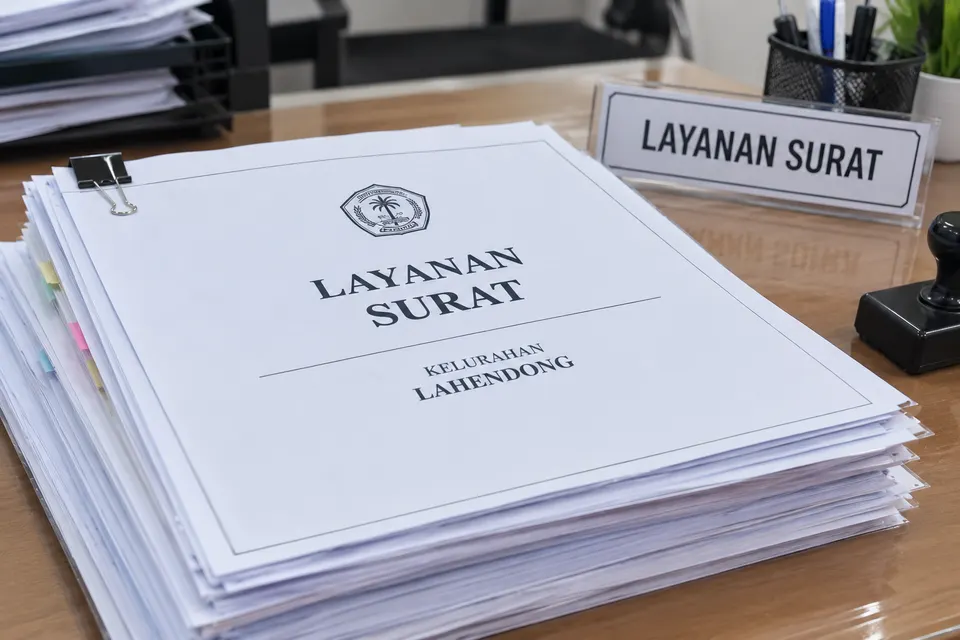
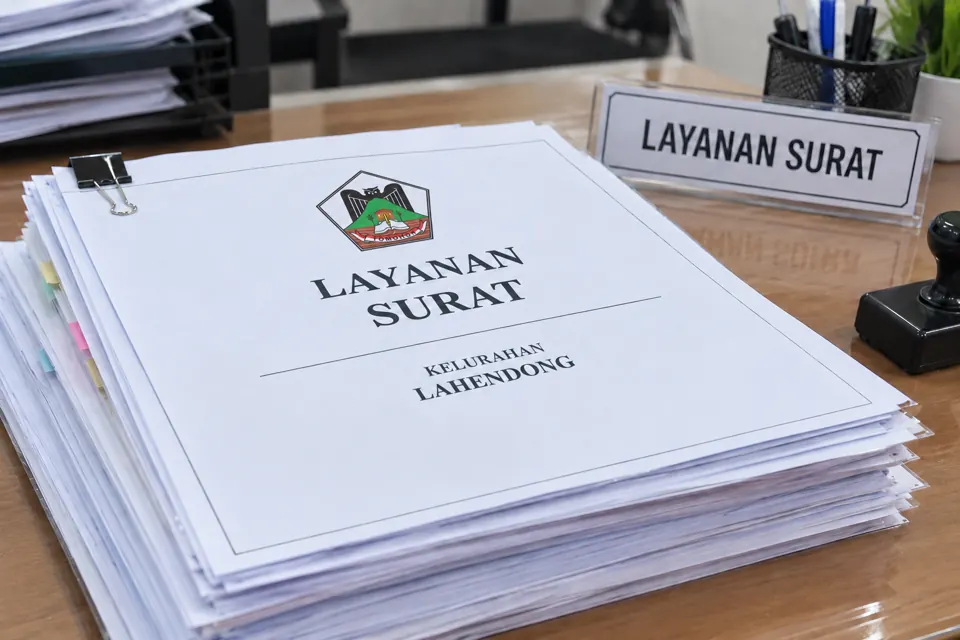
fix: galeri wisata tahan lebar nol, hero halaman Wisata & Layanan
- susunGaleri tidak lagi error bila lebar wadah belum terbaca (tab latar belakang); tampilan
  disegarkan sebelum video & galeri dipasang, jadi satu galat tidak menyembunyikan isi halaman
- Galeri Danau Linow disusun ulang tanpa linow11 (dihapus dari data/)
- Kop halaman Wisata berlatar foto Danau Linow; foto kop Layanan versi terbaru

diff --git a/wisata.html b/wisata.html
@@ -22,7 +22,12 @@
 
   <main id="konten-utama" class="flex-1">
 
-    <section class="kop-halaman">
+    <!-- Foto kop: img/wisata/hero.webp (HP: hero-hp.webp) — Danau Linow dari ketinggian -->
+    <section class="kop-halaman kop-berfoto">
+      <div class="latar-kop">
+        <img src="img/wisata/hero.webp" srcset="img/wisata/hero-hp.webp 960w, img/wisata/hero.webp 1920w" sizes="100vw" alt=""
+             class="object-[center_70%]" />
+      </div>
       <div class="wadah kop-isi">
         <nav class="remah" aria-label="Lokasi halaman" data-remah></nav>
         <h1 class="judul-halaman">Destinasi Wisata</h1>
@@ -42,7 +47,7 @@
   <script src="assets/js/data.js?v=df4c9c7e"></script>
   <script src="assets/js/data-contoh.js?v=8cc43cfc"></script>
   <script src="assets/js/ui.js?v=8b47d155"></script>
-  <script src="assets/js/komponen.js?v=0b0b7fb5"></script>
+  <script src="assets/js/komponen.js?v=65641f4d"></script>
   <script src="assets/js/halaman/wisata.js?v=02964648"></script>
 </body>
 </html>

diff --git a/assets/js/halaman/wisata-detail.js b/assets/js/halaman/wisata-detail.js
@@ -30,9 +30,9 @@ document.addEventListener("DOMContentLoaded", async () => {
 
   document.title = teksPolos(item.nama) + " — Kelurahan Lahendong";
   wadah.innerHTML = tampilanDetail(item) + bagianGaleri(item);
+  segarkanTampilan();
   pasangVideoLatar(document.querySelector(".kop-wisata video"));
   pasangGaleri();
-  segarkanTampilan();
 });
 
 function tampilkanPesan(wadah, ikon, judul, pesan, warnaIkon = "text-[var(--muted)]") {
@@ -220,6 +220,7 @@ function susunGaleri() {
     return;
   }
   const lebar = wadah.clientWidth;
+  if (!lebar) return; // belum tampil (mis. tab di latar belakang); disusun saat lebarnya terbaca
   const tinggiIdeal = lebar < 640 ? 110 : lebar < 1024 ? 200 : 240;
   const rasio = kotak.map((k) => Number(k.style.getPropertyValue("--rasio")) || 1.5);
   const total = rasio.reduce((a, r) => a + r, 0);

diff --git a/wisata-detail.html b/wisata-detail.html
@@ -33,7 +33,7 @@
   <script src="assets/js/data.js?v=df4c9c7e"></script>
   <script src="assets/js/data-contoh.js?v=8cc43cfc"></script>
   <script src="assets/js/ui.js?v=8b47d155"></script>
-  <script src="assets/js/komponen.js?v=0b0b7fb5"></script>
-  <script src="assets/js/halaman/wisata-detail.js?v=ba3deeed"></script>
+  <script src="assets/js/komponen.js?v=65641f4d"></script>
+  <script src="assets/js/halaman/wisata-detail.js?v=997dfa6e"></script>
 </body>
 </html>

diff --git a/pemerintahan.html b/pemerintahan.html
@@ -73,7 +73,7 @@
   <script src="assets/js/data.js?v=df4c9c7e"></script>
   <script src="assets/js/data-contoh.js?v=8cc43cfc"></script>
   <script src="assets/js/ui.js?v=8b47d155"></script>
-  <script src="assets/js/komponen.js?v=0b0b7fb5"></script>
+  <script src="assets/js/komponen.js?v=65641f4d"></script>
   <script src="assets/js/halaman/pemerintahan.js?v=92477b03"></script>
 </body>
 </html>

diff --git a/penduduk.html b/penduduk.html
@@ -112,7 +112,7 @@
   <script src="assets/js/data.js?v=df4c9c7e"></script>
   <script src="assets/js/data-contoh.js?v=8cc43cfc"></script>
   <script src="assets/js/ui.js?v=8b47d155"></script>
-  <script src="assets/js/komponen.js?v=0b0b7fb5"></script>
+  <script src="assets/js/komponen.js?v=65641f4d"></script>
   <script src="assets/js/halaman/penduduk.js?v=f0195f41"></script>
 </body>
 </html>

diff --git a/index.html b/index.html
@@ -138,7 +138,7 @@
   <script src="assets/js/data.js?v=df4c9c7e"></script>
   <script src="assets/js/data-contoh.js?v=8cc43cfc"></script>
   <script src="assets/js/ui.js?v=8b47d155"></script>
-  <script src="assets/js/komponen.js?v=0b0b7fb5"></script>
+  <script src="assets/js/komponen.js?v=65641f4d"></script>
   <script src="assets/js/halaman/beranda.js?v=c7f95925"></script>
 </body>
 </html>

diff --git a/cek-data.html b/cek-data.html
@@ -59,7 +59,7 @@
   <script src="assets/js/data.js?v=df4c9c7e"></script>
   <script src="assets/js/data-contoh.js?v=8cc43cfc"></script>
   <script src="assets/js/ui.js?v=8b47d155"></script>
-  <script src="assets/js/komponen.js?v=0b0b7fb5"></script>
+  <script src="assets/js/komponen.js?v=65641f4d"></script>
   <script src="assets/js/halaman/cek-data.js?v=85defc1f"></script>
 </body>
 </html>

diff --git a/profil.html b/profil.html
@@ -118,7 +118,7 @@
   <script src="assets/js/data.js?v=df4c9c7e"></script>
   <script src="assets/js/data-contoh.js?v=8cc43cfc"></script>
   <script src="assets/js/ui.js?v=8b47d155"></script>
-  <script src="assets/js/komponen.js?v=0b0b7fb5"></script>
+  <script src="assets/js/komponen.js?v=65641f4d"></script>
   <script src="assets/js/halaman/profil.js?v=9a14b000"></script>
 </body>
 </html>

diff --git a/layanan.html b/layanan.html
@@ -78,7 +78,7 @@
   <script src="assets/js/data.js?v=df4c9c7e"></script>
   <script src="assets/js/data-contoh.js?v=8cc43cfc"></script>
   <script src="assets/js/ui.js?v=8b47d155"></script>
-  <script src="assets/js/komponen.js?v=0b0b7fb5"></script>
+  <script src="assets/js/komponen.js?v=65641f4d"></script>
   <script src="assets/js/halaman/layanan.js?v=9c048369"></script>
 </body>
 </html>

diff --git a/kontak.html b/kontak.html
@@ -93,7 +93,7 @@
   <script src="assets/js/data.js?v=df4c9c7e"></script>
   <script src="assets/js/data-contoh.js?v=8cc43cfc"></script>
   <script src="assets/js/ui.js?v=8b47d155"></script>
-  <script src="assets/js/komponen.js?v=0b0b7fb5"></script>
+  <script src="assets/js/komponen.js?v=65641f4d"></script>
   <script src="assets/js/halaman/kontak.js?v=3e154046"></script>
 </body>
 </html>

diff --git a/kkt.html b/kkt.html
@@ -66,7 +66,7 @@
   <script src="assets/js/data.js?v=df4c9c7e"></script>
   <script src="assets/js/data-contoh.js?v=8cc43cfc"></script>
   <script src="assets/js/ui.js?v=8b47d155"></script>
-  <script src="assets/js/komponen.js?v=0b0b7fb5"></script>
+  <script src="assets/js/komponen.js?v=65641f4d"></script>
   <script src="assets/js/halaman/kkt.js?v=36e94079"></script>
 </body>
 </html>

diff --git a/assets/js/komponen.js b/assets/js/komponen.js
@@ -38,7 +38,6 @@ const DESTINASI = {
       { berkas: "foto-8.webp" },
       { berkas: "foto-9.webp" },
       { berkas: "foto-10.webp" },
-      { berkas: "foto-11.webp" },
     ],
   },
   "objek-wisata-air-panas-belerang-dan-hutan-pinus": {
